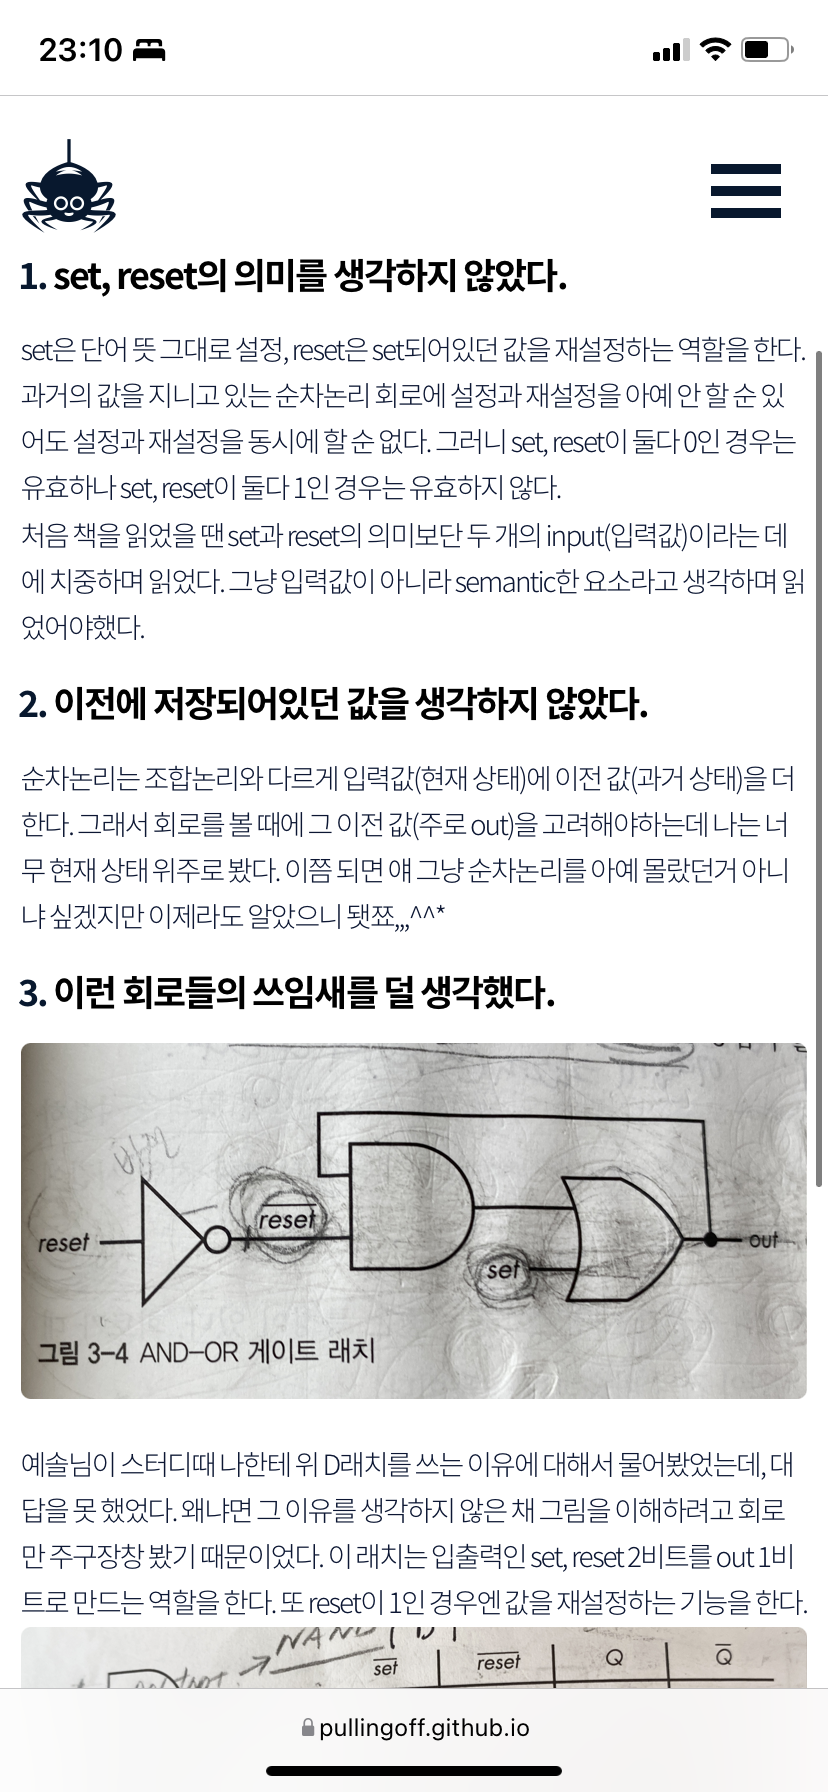
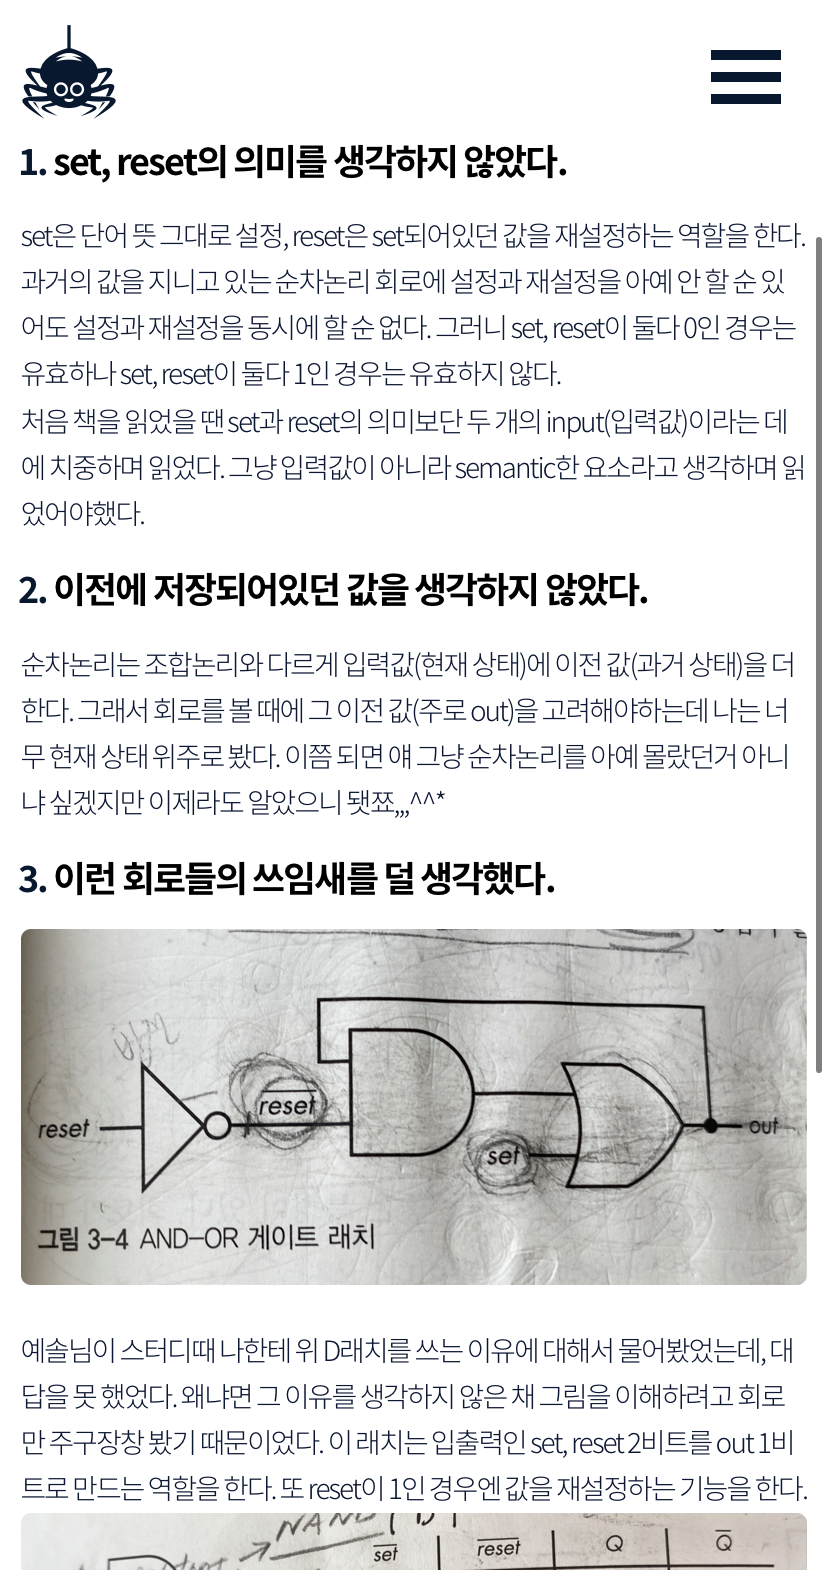
:sweat: img path changed

Changed region(s): [[0.0, 0.0, 0.9964, 1.0], [0.9662, 0.1561, 0.9964, 0.1873]]

diff --git a/_sass/base.images.scss b/_sass/base.images.scss
@@ -27,4 +27,18 @@ figure {
 
 .post-content p img {
   border-radius: 5px;
+  border: 1px solid lightgrey;
+  margin: 10px 0;
+  max-width: 700px;
+}
+
+.post-content div {
+  max-width: 90vw;
+  img {
+
+    border-radius: 5px;
+    border: 1px solid lightgrey;
+    margin: 10px 0;
+    max-width: 700px;
+  }
 }

diff --git a/_posts/blog/2022-02-28-blog.md b/_posts/blog/2022-02-28-blog.md
@@ -1,22 +1,22 @@
 ---
-title: "개발자 포트폴리오 겸 블로그를 직접 디자인 및 개발하며 느낀 점"
+title: "내 블로그 겸 포트폴리오를 직접 디자인 및 개발하며 주의한 것, 알게된 것"
 layout: post
 date: 2022-02-28 02:00
-thumbnail: 
+thumbnail: /assets/images/fe/redes5.PNG
 tag:
 - blog
 nav-class: blog
 category: blog
 author: Hailey Park
-published: false
+# published: false
 description: 
 ---
 
-2022년 3월 11일 기준으로 완성한 내 블로그! 사실 만든 지는 2달 정도 됐는데 디자인을 대폭 수정했다. 수정하게 된 이유는 아래와 같다.
+블로그의 디자인을 대폭 수정했다. 수정하기 전엔 이렇게 생겼었다.
 
 ![blog 수정전 ]({{site.baseurl}}/assets/images/fe/toomanywords.gif)
 
-블로그를 다 만들었는데.. 뭔가 애매한 게 있어서 생각해보니 내 블로그 대문에 글씨가 너무 많았다.   
+디자인에 뭔가 부족한 게 있는 것같고, 애매해서 생각해보니 블로그 대문(첫 화면)에 글씨가 너무 많았다.   
 문제는 최근 작성한 글 목록 부분이었다.  
 
 ![recent posts]({{site.baseurl}}/assets/images/blog/rp.png)
@@ -25,10 +25,12 @@ description:
 
 그러고보니 내가 원하는 페이지는 노션으로 만든 듯한 깔끔한 페이지였다. 그래서 뚝딱뚝딱 수정을 해보았고.. 바뀐 모습은 이와 같다.
 
-![메인 윗부분]({{site.baseurl}}/assets/images/fe/redes5.PNG)
-![메인 아랫부분]({{site.baseurl}}/assets/images/fe/redes4.PNG)
-![포스트 예시]({{site.baseurl}}/assets/images/fe/redes1.PNG)
-![내비게이션]({{site.baseurl}}/assets/images/fe/redes2.PNG)
+<div style='display:flex;align-items: flex-start;width:calc(24% - 3px);'>
+    <img alt='메인 윗부분' src='{{site.baseurl}}/assets/images/fe/redes5.PNG' />
+    <img alt='메인 아랫부분' src='{{site.baseurl}}/assets/images/fe/redes4.PNG' />
+    <img alt='포스트 예시' src='{{site.baseurl}}/assets/images/fe/redes1.PNG' />
+    <img alt='내비게이션' src='{{site.baseurl}}/assets/images/fe/redes2.PNG' />
+</div>
 
 ## 디자인하며 중점적으로 생각한 부분
 

diff --git a/_posts/til/2022-02-27-pj.md b/_posts/til/2022-02-27-pj.md
@@ -4,9 +4,9 @@ layout: post
 date: 2022-02-27 02:00
 thumbnail: 
 tag:
-- blog
-nav-class: blog
-category: blog
+- til
+nav-class: til
+category: til
 author: Hailey Park
 description: 
 ---
